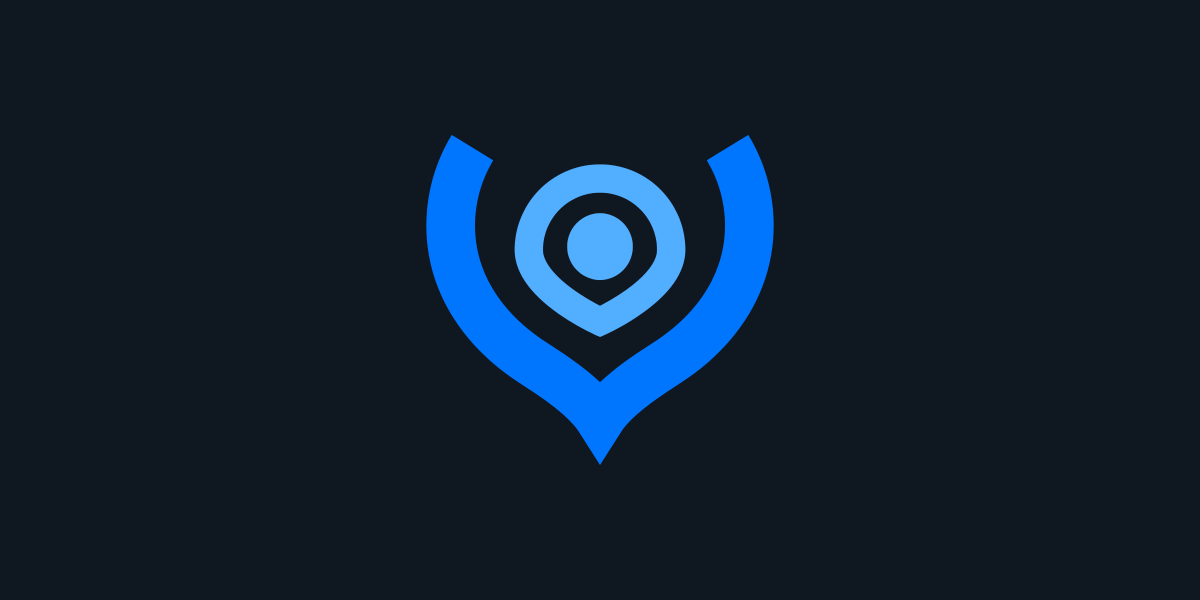
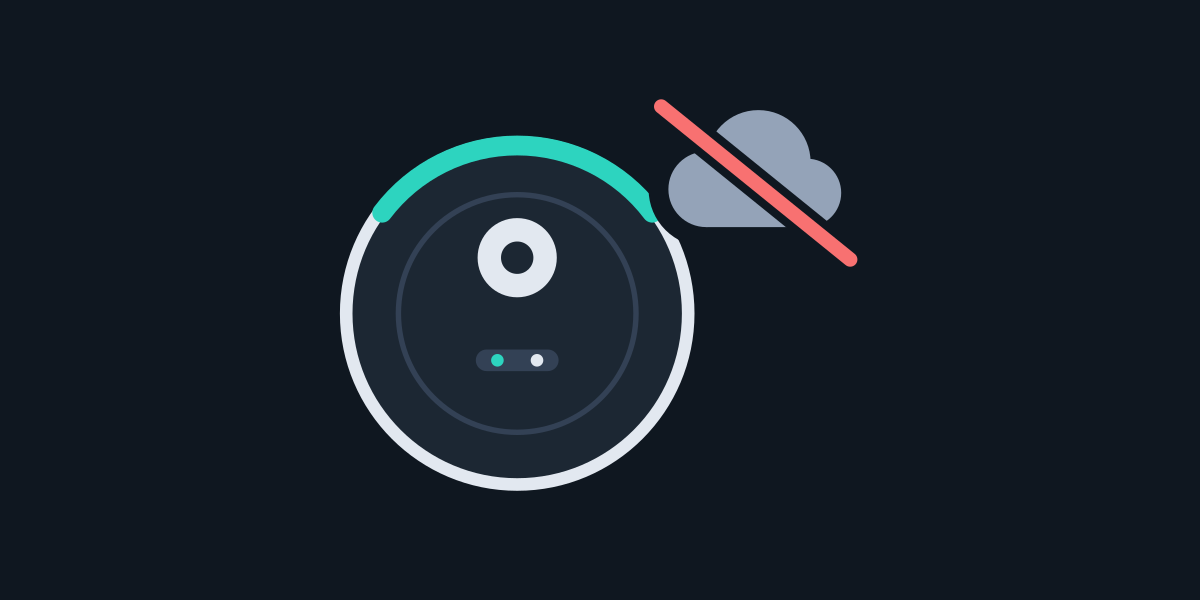
Rename the plugin to Cloudless Vacuum
Use a generic robot vacuum banner in place of the Valetudo logo, and
remove the logo notice and license. Keep the tool names and settings.
Set the version to 0.2.0.

Changed region(s): [[0.2775, 0.15, 0.74, 0.84]]

diff --git a/__init__.py b/__init__.py
@@ -1,4 +1,4 @@
-"""Valetudo plugin for Hermes Agent: control a Valetudo robot vacuum over its local REST API."""
+"""Cloudless Vacuum plugin for Hermes Agent: control a robot vacuum that runs Valetudo, over its local REST API."""
 
 from __future__ import annotations
 

diff --git a/README.md b/README.md
@@ -1,4 +1,4 @@
-# Valetudo Robot Control for Hermes Agent
+# Cloudless Vacuum for Hermes Agent
 
 A [Hermes Agent](https://github.com/NousResearch/hermes-agent) plugin that controls a robot vacuum that runs [Valetudo](https://valetudo.cloud). It uses the Valetudo REST API on your local network. It needs no Home Assistant, no MQTT and no cloud account.
 
@@ -32,8 +32,8 @@ The plugin connects directly to the robot. It ignores proxy settings and does no
 ## Install
 
 ```sh
-hermes plugins install valetudo
-hermes plugins enable valetudo
+hermes plugins install cloudless-vacuum
+hermes plugins enable cloudless-vacuum
 ```
 
 The installer asks for `VALETUDO_URL`. Use the address of the Valetudo web interface, for example `http://192.168.1.50`. Do not put a username or password in the URL.
@@ -45,7 +45,7 @@ VALETUDO_USERNAME=<username>
 VALETUDO_PASSWORD=<password>
 ```
 
-In the Hermes Desktop app, you can also set them in Settings → Plugins → Valetudo Robot Control.
+In the Hermes Desktop app, you can also set them in Settings → Plugins → Cloudless Vacuum.
 
 Start a new Hermes session. Then ask, for example, "Clean the kitchen and the office twice".
 
